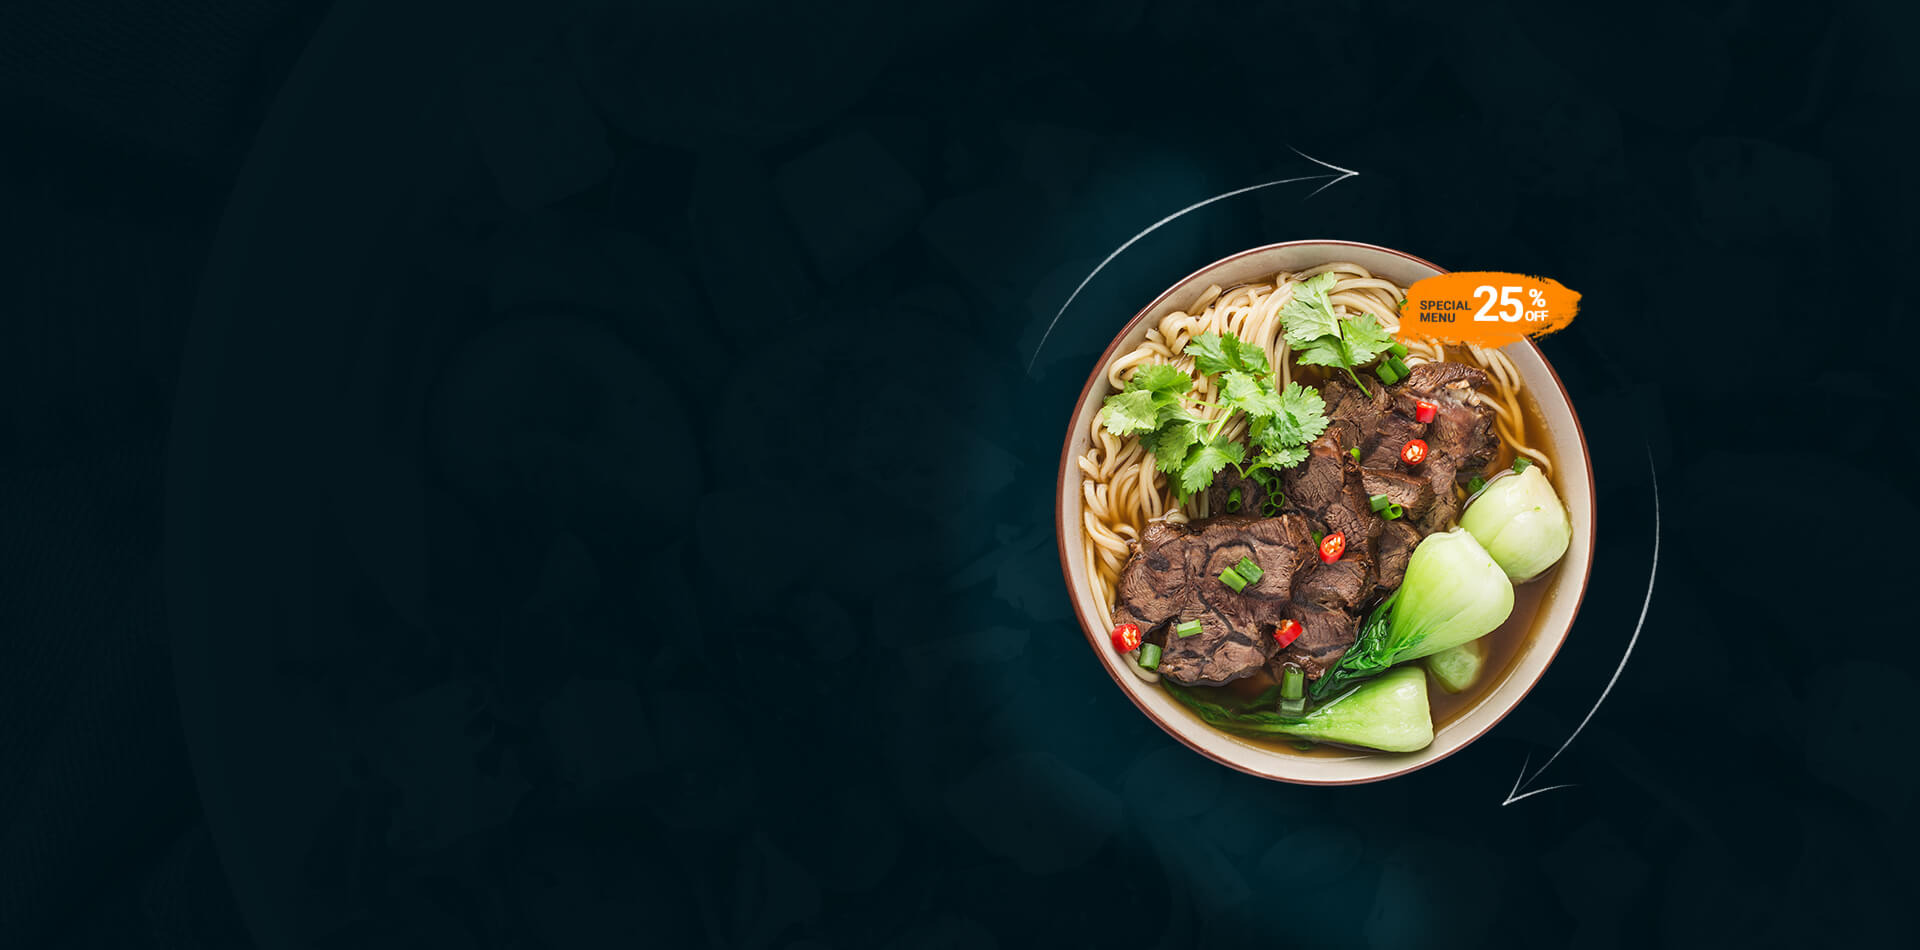
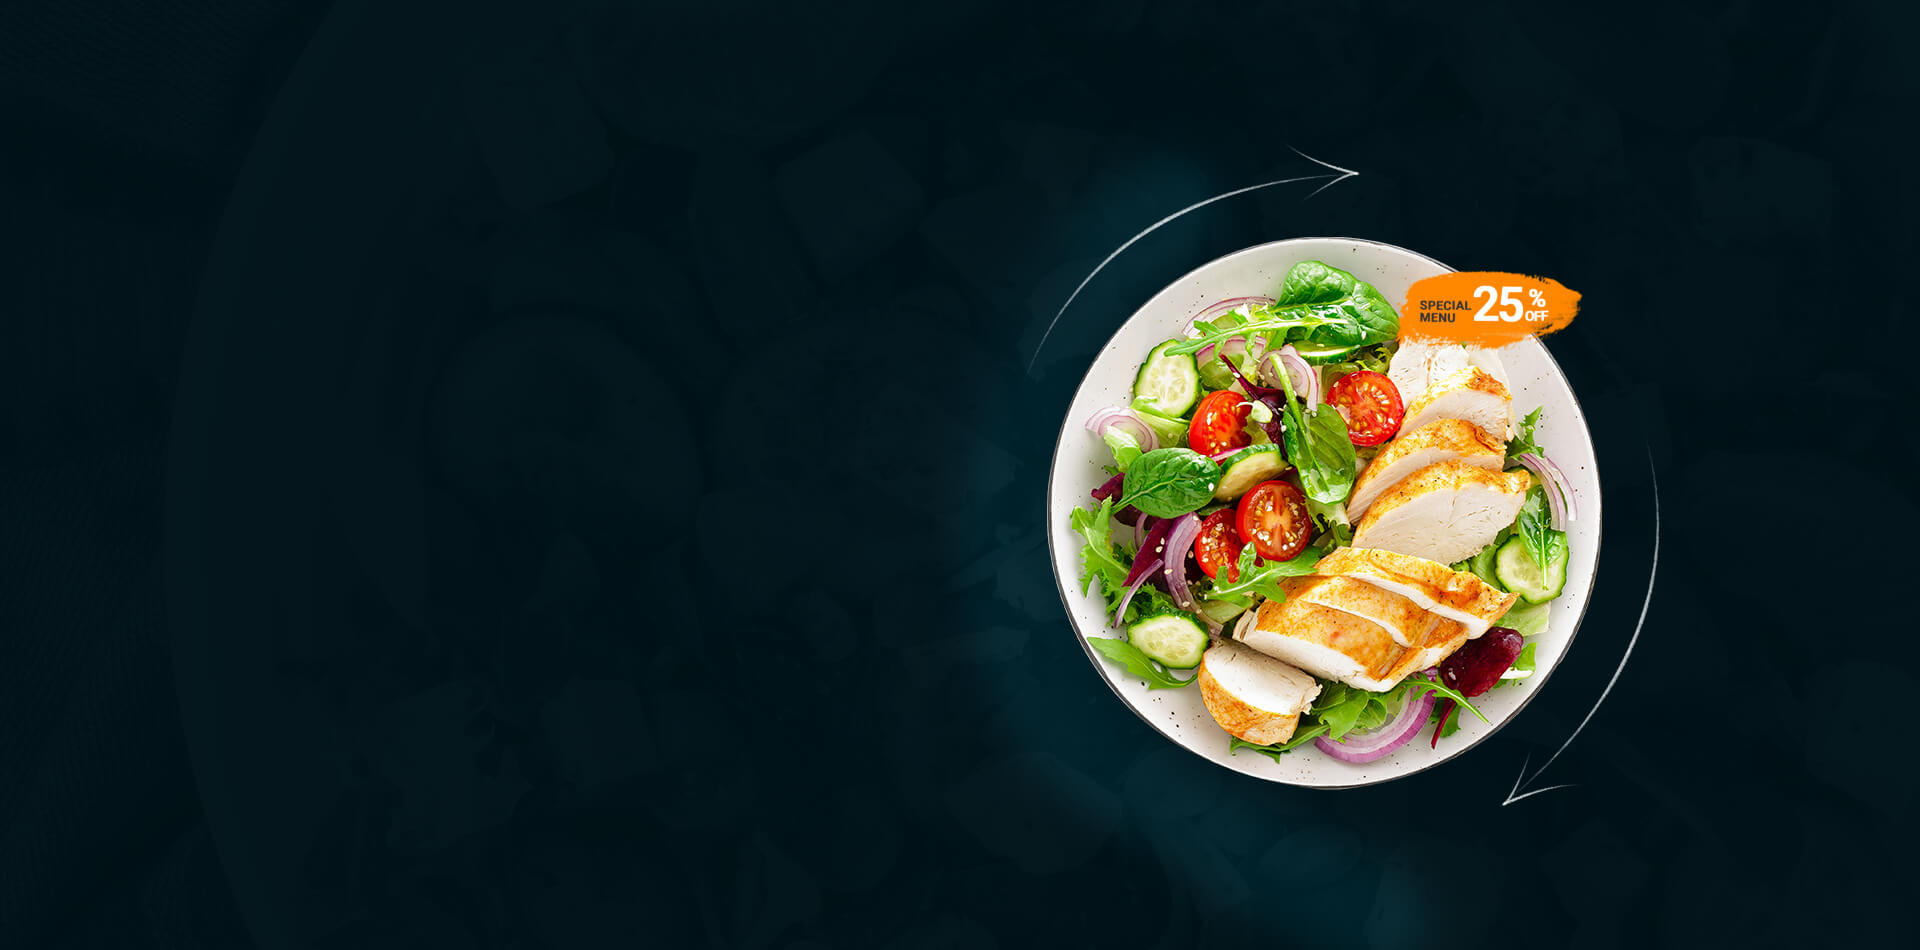
hero alanı düzenlendi

Changed region(s): [[0.5312, 0.2442, 0.8438, 0.8547]]

diff --git a/public/front/assets/css/main.css b/public/front/assets/css/main.css
@@ -1,6 +1,7 @@
 :root {
     --primary-color: #011920;
     --orange-color: #ff8700;
+    --header-background: #04171e;
 }
 
 @import url("https://fonts.googleapis.com/css2?family=Poppins:ital,wght@0,100;0,200;0,300;0,400;0,500;0,600;0,700;0,800;0,900;1,100;1,200;1,300;1,400;1,500;1,600;1,700;1,800;1,900&display=swap");
@@ -20,10 +21,14 @@ a {
     color: black;
 }
 
+img {
+    max-width: 100%;
+}
+
 /* HEADER */
 .header {
-    background-color: var(--primary-color);
-    padding: 30px 0;
+    background-color: var(--header-background);
+    padding: 15px 0;
 }
 .nav {
     display: flex;

diff --git a/public/front/assets/js/main.js b/public/front/assets/js/main.js
@@ -1,0 +1,5 @@
+var swiper = new Swiper(".heroSlider", {
+    pagination: {
+        el: ".swiper-pagination",
+    },
+});

diff --git a/resources/views/front/partials/home_section/hero.blade.php b/resources/views/front/partials/home_section/hero.blade.php
@@ -1,0 +1,14 @@
+@extends('front.base')
+
+
+@section('content')
+    <section class="hero-slider">
+        <div class="swiper heroSlider>
+            <div class="swiper-wrapper">
+            <div class="swiper-slide"><img src="{{ asset('front/assets/images/hero1.jpg') }}" alt="heroImage"></div>
+            <div class="swiper-slide"><img src="{{ asset('front/assets/images/hero2.jpg') }}" alt="heroImage"></div>
+        </div>
+        <div class="swiper-pagination"></div>
+        </div>
+    </section>
+@endsection

diff --git a/resources/views/front/pages/home.blade.php b/resources/views/front/pages/home.blade.php
@@ -1,6 +1,5 @@
 @extends('front.base')
+
 @section('content')
-    <div>
-        Home
-    </div>
+    @include('front.partials.home_section.hero')
 @endsection
